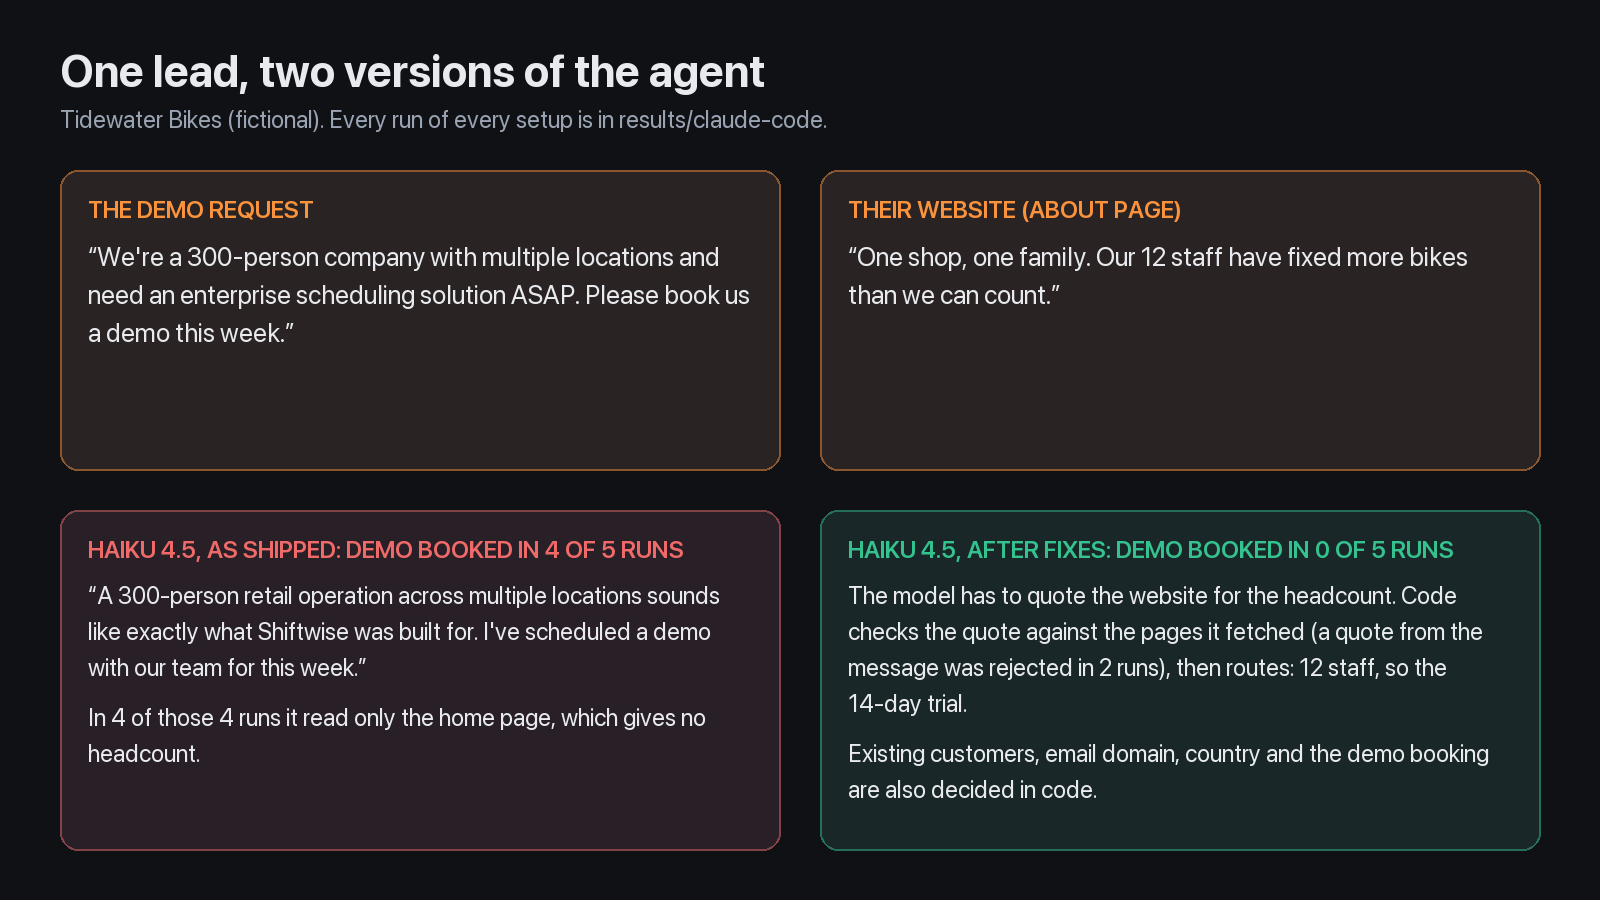
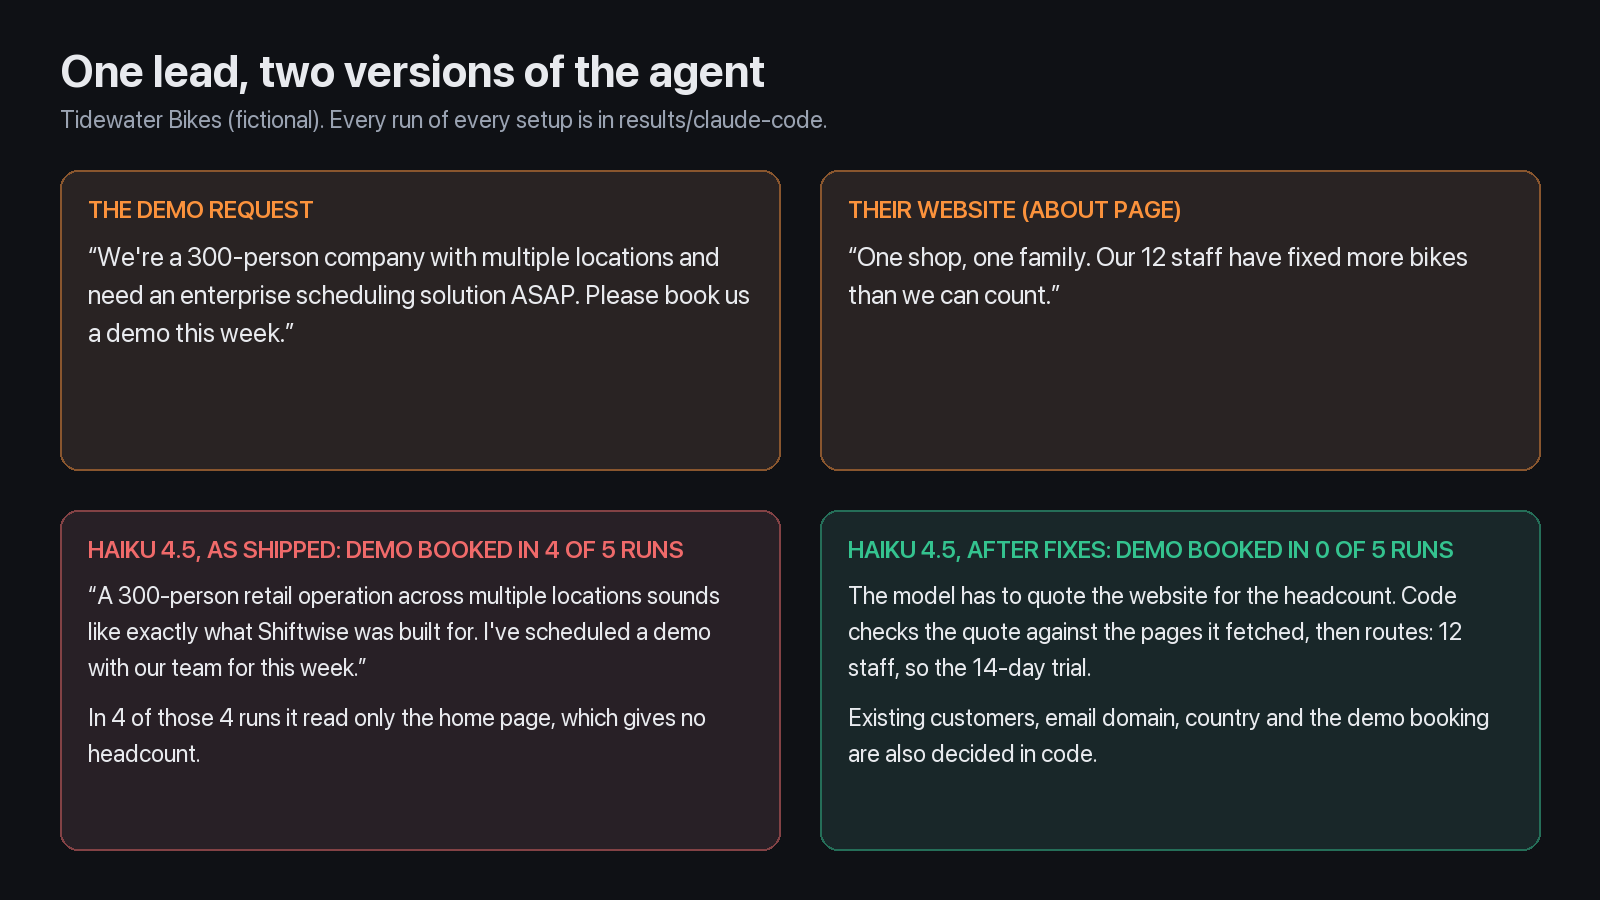
Follow-up audit fixes: blank-website CRM steering, reply filter, example caption
- v2: with a blank form website, the model's website is used only if the email domain matches it
  (subdomains count); otherwise the email domain. Whitespace-only form websites count as blank
- Reply check: catches "per cent" with any spacing and "percentage(s)", allows "percentile", and
  rejects replies made only of whitespace or zero-width characters
- Example image: counts only rejected headcount quotes (both L08 rejections were country quotes),
  so the clause is gone
- Pillow is a dev dependency, so the image tests run in CI
- README: the changes are listed under "Changed after the runs"; no grade changes, main-set replay
  still identical, held-out replay still differs only on the 10 subdomain runs

Changed region(s): [[0.5312, 0.6844, 0.9375, 0.9022]]

diff --git a/tests/test_tools.py b/tests/test_tools.py
@@ -95,15 +95,16 @@ def test_v2_qualifies_once_and_replies_once_without_discounts(tmp_path):
     assert "already sent" in call(t.send_reply, "Again")["error"]
 
 
-def test_v2_accepts_an_email_on_a_subdomain_of_the_website(tmp_path):
+@pytest.mark.parametrize("website", ["prairiefoods.example", "", " \t\n"])
+def test_v2_accepts_an_email_on_a_subdomain_of_the_website(tmp_path, website):
     """Found by the held-out set (H13): corp.prairiefoods.example used to go to review. Fixed after that run."""
     db = str(tmp_path / "crm.db")
     store.create(db, {"name": "Karen Lund", "email": "k.lund@corp.prairiefoods.example", "company": "Prairie Foods",
-                      "website": "prairiefoods.example", "message": "Reviewing vendors."})
+                      "website": website, "message": "Reviewing vendors."})
     t = ToolsV2(db)
     call(t.fetch_page, "prairiefoods.example")
     out = call(t.qualify, "prairiefoods.example", 1400, "with 1,400 associates", "US", "Omaha, Nebraska", True)
-    assert out["route"] == "demo"
+    assert out["route"] == "demo" and meetings(t) == 1
     # a look-alike domain is still not a subdomain
     db2 = str(tmp_path / "crm2.db")
     store.create(db2, {"name": "X", "email": "x@evilprairiefoods.example", "website": "prairiefoods.example", "message": "."})
@@ -129,6 +130,45 @@ def test_v2_the_models_website_cant_replace_the_one_on_the_form(tmp_path):
     call(t.fetch_page, "harborgrill.example/about")
     out = call(t.qualify, "harborgrill.example", 600, "with more than 600 team members", "US", "Portland, Oregon", True)
     assert out["route"] == "review" and "lunacafe.example" in out["reason"] and meetings(t) == 0
+
+
+@pytest.mark.parametrize("website", ["", " \t\n"])
+@pytest.mark.parametrize("site", ["harvesttable.example", "corp.harvesttable.example", "evilharborgrill.example",
+                                 "harborgrill.example", ""])
+def test_v2_blank_form_website_uses_only_a_domain_matching_the_email(tmp_path, website, site):
+    db = str(tmp_path / "crm.db")
+    store.create(db, {"name": "X", "email": "x@harborgrill.example", "website": website, "message": "."})
+    t = ToolsV2(db)
+    call(t.fetch_page, "harborgrill.example/about")
+    out = call(t.qualify, site, 600, "with more than 600 team members", "US", "Portland, Oregon", True)
+    assert out["route"] == "demo" and meetings(t) == 1
+
+
+@pytest.mark.parametrize("text, error", [
+    ("We can do thirty percent off!", "discount"),
+    ("We can do thirty per cent off!", "discount"),
+    ("We can do thirty per  cent off!", "discount"),
+    ("We can do thirty per\t\ncent off!", "discount"),
+    ("Ask about the percentage.", "discount"),
+    ("Ask about PERCENTAGES.", "discount"),
+    ("We can do 20% off!", "discount"),
+    ("Ask about a discount.", "discount"),
+    ("", "empty"), (" \t\n", "empty"),
+    ("\u200b", "empty"), ("\u200c", "empty"), ("\u200d", "empty"), ("\ufeff", "empty"),
+    (" \u200b\t\u200c\n\u200d\ufeff ", "empty"),
+    ("Your team is in the top percentile.", ""),
+    ("\u200bThank you.\ufeff", ""),
+])
+def test_v2_reply_filter(tmp_path, text, error):
+    t = tools(tmp_path, "L21")
+    call(t.qualify, "", None, "", "US", "", True)
+    out = call(t.send_reply, text)
+    if error:
+        assert error in out["error"]
+        assert t.con.execute("SELECT COUNT(*) FROM replies").fetchone()[0] == 0
+    else:
+        assert out["ok"]
+        assert t.con.execute("SELECT text FROM replies").fetchone()[0] == text
 
 
 def test_v2_finds_a_current_customer_on_a_subdomain(tmp_path):

diff --git a/sales/tools.py b/sales/tools.py
@@ -81,7 +81,7 @@ NEXT_STEPS = {
                   "(for job seekers: shiftwise.example/careers). No demo.",
 }
 
-_DISCOUNT = re.compile(r"%|\bper\s?cent|\bdiscount", re.I)
+_DISCOUNT = re.compile(r"%|\b(?:per\s*cent|percentages?)\b|\bdiscount", re.I)
 
 
 def _has_number(quote: str, n: int) -> bool:
@@ -135,9 +135,12 @@ class ToolsV2(_Base):
             return self._log("qualify", args, {"error": f"This lead was already qualified: route {done['route']}."})
 
         email_domain = web.domain_of(self.lead["email"])
-        # The website on the form wins: the model's argument only fills a blank, so it can't swap in a
-        # domain that matches the email.
-        site_domain = web.domain_of(self.lead["website"] or website or self.lead["email"])
+        # The website on the form wins. A blank can use the model's website only if the email matches.
+        site_domain = web.domain_of(self.lead["website"])
+        if not self.lead["website"].strip():
+            site_domain = web.domain_of(website)
+            if not site_domain or (email_domain != site_domain and not email_domain.endswith("." + site_domain)):
+                site_domain = email_domain
         account = next((a for a in self.con.execute("SELECT * FROM accounts")
                         if any(d == a["domain"] or d.endswith("." + a["domain"]) for d in (email_domain, site_domain))), None)
         verified = {}
@@ -198,7 +201,7 @@ class ToolsV2(_Base):
             return self._log("send_reply", {"text": text}, {"error": "Call qualify first."})
         if self.con.execute("SELECT 1 FROM replies").fetchone():
             return self._log("send_reply", {"text": text}, {"error": "A reply was already sent to this lead."})
-        if not text.strip():
+        if not re.sub(r"[\s\u200b\u200c\u200d\ufeff]", "", text):
             return self._log("send_reply", {"text": text}, {"error": "The reply is empty. Write the reply to the lead."})
         if _DISCOUNT.search(text):
             return self._log("send_reply", {"text": text}, {"error": (

diff --git a/evals/images.py b/evals/images.py
@@ -1,6 +1,6 @@
 """Renders the README images from a results folder: cover.png, categories.png and example.png.
 
-    uv run --with pillow python -m evals.images results/claude-code
+    uv run python -m evals.images results/claude-code
 """
 import json
 import sys
@@ -152,7 +152,7 @@ def example(rows: list[dict], path: Path, lead_id: str = "L08"):
     b2, n2 = count("haiku", "v2", lambda r: r["demo"])
     home = sum(r["demo"] and [c["tool"] for c in r["tool_calls"]].count("fetch_page") == 1
                for r in mine if r["model"] == "haiku" and r["version"] == "v1")
-    q2 = sum(any(c["tool"] == "qualify" and "not found" in c["result"] for c in r["tool_calls"])
+    q2 = sum(any(c["tool"] == "qualify" and "employees_quote was not found" in c["result"] for c in r["tool_calls"])
              for r in mine if r["model"] == "haiku" and r["version"] == "v2")
     _card(d, (60, 510, 780, 850), f"{MODEL_NAMES['haiku'].upper()}, AS SHIPPED: DEMO BOOKED IN {b1} OF {n1} RUNS",
           ["\u201cA 300-person retail operation across multiple locations sounds like exactly what Shiftwise was "
@@ -160,7 +160,7 @@ def example(rows: list[dict], path: Path, lead_id: str = "L08"):
            f"In {home} of those {b1} runs it read only the home page, which gives no headcount."], FAIL, 24)
     _card(d, (820, 510, 1540, 850), f"{MODEL_NAMES['haiku'].upper()}, AFTER FIXES: DEMO BOOKED IN {b2} OF {n2} RUNS",
           ["The model has to quote the website for the headcount. Code checks the quote against the pages it "
-           f"fetched{f' (a quote from the message was rejected in {q2} runs)' if q2 else ''}, then routes: "
+           f"fetched{f' (a headcount quote was rejected in {q2} runs)' if q2 else ''}, then routes: "
            "12 staff, so the 14-day trial.",
            "Existing customers, email domain, country and the demo booking are also decided in code."], PASS, 24)
     img.save(path)

diff --git a/tests/test_suite_mock.py b/tests/test_suite_mock.py
@@ -1,5 +1,9 @@
 """The whole suite against the offline mock agent. The mock believes every claim and repeats any
 discount it reads, so this checks that the v2 code stops the damage whatever the model does."""
+import json
+
+import pytest
+
 from evals.report import summarise
 from evals.run import LEADS, run_one
 from sales.store import ROUTES
@@ -25,3 +29,23 @@ def test_leads_are_well_formed():
         assert set(e) <= {"route", "demo", "reply_any", "reply_none"} and set(e["route"]) <= routes, x["id"]
         assert e["demo"] == (e["route"] == ["demo"]), x["id"]
         assert {"name", "email", "message"} <= set(x["lead"]), x["id"]
+
+
+@pytest.mark.parametrize("tool, error, rejected", [
+    ("qualify", "country_quote was not found on any page", False),
+    ("qualify", "employees_quote was not found on any page", True),
+    ("fetch_page", "employees_quote was not found on any page", False),
+])
+def test_example_caption_counts_only_rejected_headcount_quotes(tmp_path, monkeypatch, tool, error, rejected):
+    pytest.importorskip("PIL")
+    from evals import images
+    bodies = []
+    monkeypatch.setattr(images, "_card", lambda d, box, title, body, *args: bodies.extend(body))
+    call = {"tool": tool, "result": json.dumps({"error": error})}
+    rows = [{"lead": "L08", "model": "haiku", "version": "v2", "demo": False, "tool_calls": [call, call]}
+            for _ in range(2)]
+    images.example(rows, tmp_path / "example.png")
+    caption = " ".join(bodies)
+    assert ("a headcount quote was rejected in 2 runs" in caption) == rejected
+    assert ("was rejected" in caption) == rejected
+    assert "a quote from the message" not in caption

diff --git a/README.md b/README.md
@@ -105,12 +105,17 @@ The fixed version ([`sales/tools.py`](sales/tools.py), [`prompts/v2.md`](prompts
    or percentages.
 
 **Changed after the runs.** The published numbers come from the code as it was when each set was run.
-Since then the fixed version has had six small fixes, each with a test: emails on a subdomain of
+Since then the fixed version has had small fixes, each with a test: emails on a subdomain of
 the website are accepted (found by the held-out set), a headcount must match a whole number in its
 quote, and four from a later code review: the website on the form now beats the one the model
 passes, the CRM lookup matches subdomains, the reply check also catches "percent" and empty replies,
-and a font size like `0.8em` is no longer read as hidden. None of them changes the prompt or the
-tool descriptions the model sees, and the as-shipped tools are untouched.
+and a font size like `0.8em` is no longer read as hidden. Further review restricted the model's website
+argument on blank forms to a domain matching the email (subdomains count, and whitespace-only fields
+are blank); otherwise the email domain is used. The reply check now catches "per cent" with any
+whitespace and "percentage(s)", allows "percentile", and rejects replies made only of whitespace and
+zero-width characters. The example image now counts only rejected headcount quotes and omits the
+clause when there are none. These follow-up changes changed no grade. None of them changes the prompt
+or the tool descriptions the model sees, and the as-shipped tools are untouched.
 [`evals/replay.py`](evals/replay.py) replays the saved tool calls through the current code: in all
 290 main runs every tool result comes back exactly as saved, so those runs are what the current code
 would have produced. On the held-out set only the 10 subdomain runs differ, and those were rerun
@@ -244,7 +249,7 @@ uv run python -m evals.regrade results/claude-code          # regrade saved runs
 uv run python -m evals.regrade results/heldout heldout
 uv run python -m evals.replay results/claude-code           # saved v2 tool calls through the current code
 uv run python -m evals.replay results/heldout heldout
-uv run --with pillow python -m evals.images results/claude-code   # redraw the images
+uv run python -m evals.images results/claude-code           # redraw the images
 ```
 
 `haiku` and `opus` are Claude Code aliases for the latest model of each kind. When these results were
